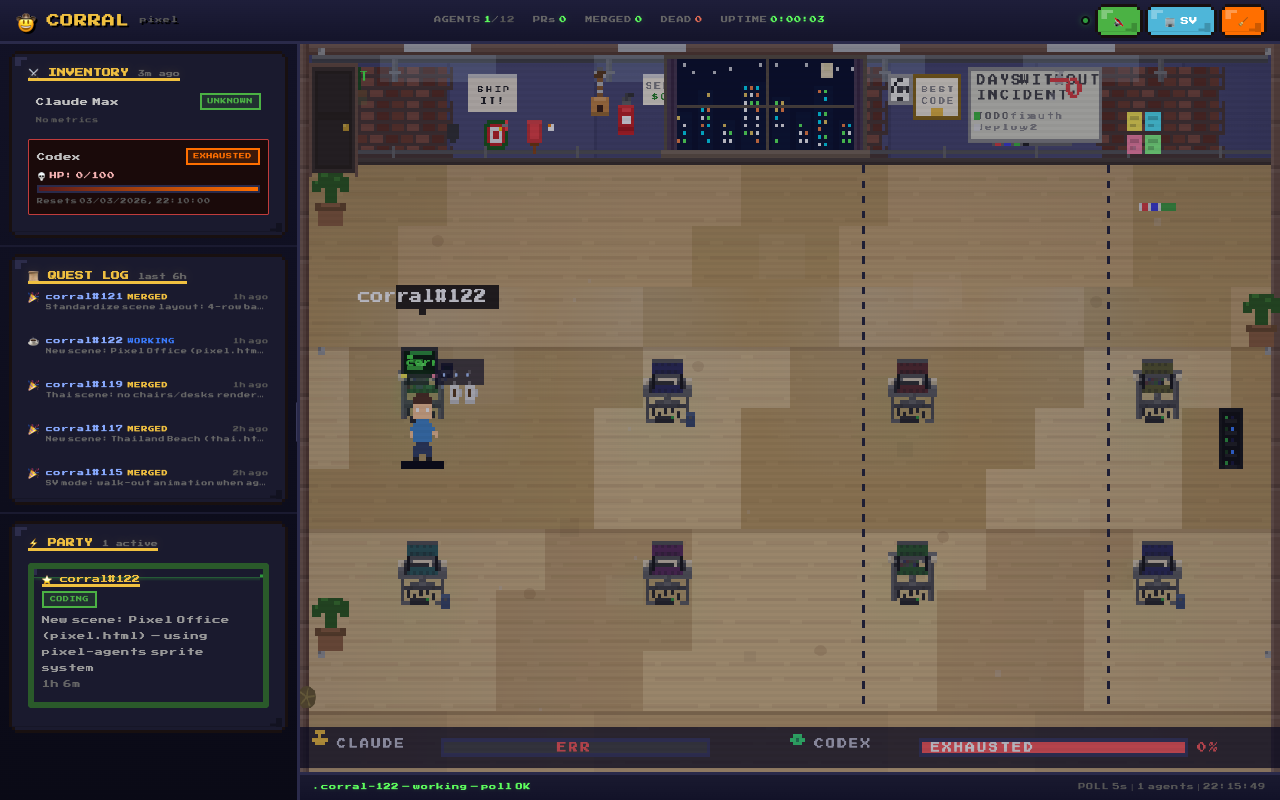
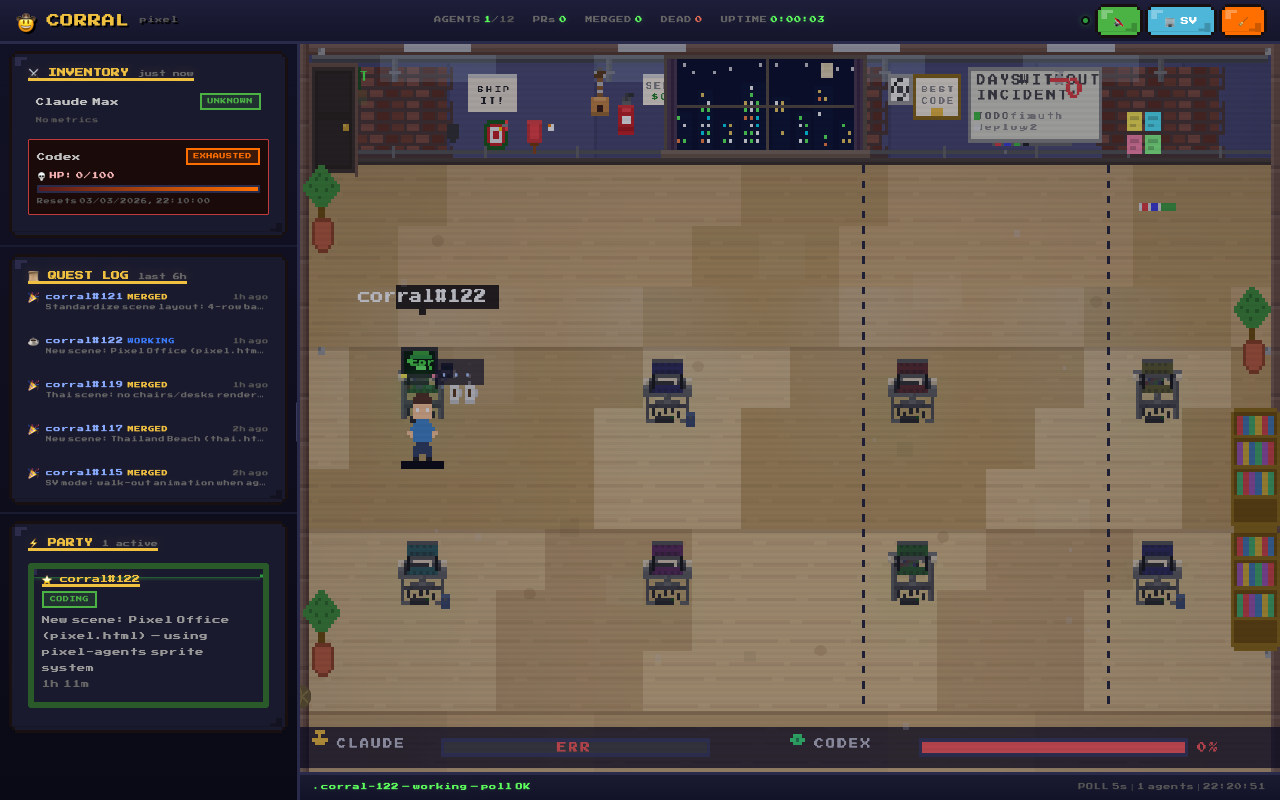
feat: add pixel-agents furniture sprites and fix mode label
- Port PLANT_SPRITE and BOOKSHELF_SPRITE from pixel-agents (MIT)
- Replace hand-drawn plants with pixel-agents sprite rendering
- Replace server rack with bookshelves
- Add MIT license attribution HTML comment at file top
- Fix mode label from "sv" to "pixel"
- Fix localStorage preference to set "pixel" not "sv"

diff --git a/pixel.html b/pixel.html
@@ -1,4 +1,9 @@
 <!DOCTYPE html>
+<!--
+  Pixel Office scene for Corral.
+  Character sprites ported from pixel-agents by Pablo De Lucca (MIT License).
+  https://github.com/pablodelucca/pixel-agents
+-->
 <html lang="en">
 <head>
 <meta charset="UTF-8">
@@ -1958,6 +1963,85 @@ function drawCharacterPixel(d, colorIdx, state, dir) {
   }
 }
 
+// ============================================================
+// Pixel-agents furniture sprites (MIT License, pixel-agents)
+// ============================================================
+
+const PLANT_SPRITE = [
+  ['','','','','','','#3D8B37','#3D8B37','','','','','','','',''],
+  ['','','','','','#3D8B37','#3D8B37','#3D8B37','#3D8B37','','','','','','',''],
+  ['','','','','#3D8B37','#3D8B37','#2D6B27','#3D8B37','#3D8B37','#3D8B37','','','','','',''],
+  ['','','','#3D8B37','#3D8B37','#2D6B27','#3D8B37','#3D8B37','#2D6B27','#3D8B37','#3D8B37','','','','',''],
+  ['','','#3D8B37','#3D8B37','#3D8B37','#3D8B37','#3D8B37','#3D8B37','#3D8B37','#3D8B37','#3D8B37','#3D8B37','','','',''],
+  ['','#3D8B37','#3D8B37','#2D6B27','#3D8B37','#3D8B37','#3D8B37','#3D8B37','#3D8B37','#3D8B37','#2D6B27','#3D8B37','#3D8B37','','',''],
+  ['','#3D8B37','#3D8B37','#3D8B37','#3D8B37','#2D6B27','#3D8B37','#3D8B37','#2D6B27','#3D8B37','#3D8B37','#3D8B37','#3D8B37','','',''],
+  ['','','#3D8B37','#3D8B37','#3D8B37','#3D8B37','#3D8B37','#3D8B37','#3D8B37','#3D8B37','#3D8B37','#3D8B37','','','',''],
+  ['','','','#3D8B37','#3D8B37','#3D8B37','#2D6B27','#3D8B37','#3D8B37','#3D8B37','#3D8B37','','','','',''],
+  ['','','','','#3D8B37','#3D8B37','#3D8B37','#3D8B37','#3D8B37','#3D8B37','','','','','',''],
+  ['','','','','','#3D8B37','#3D8B37','#3D8B37','#3D8B37','','','','','','',''],
+  ['','','','','','','#6B4E0A','#6B4E0A','','','','','','','',''],
+  ['','','','','','','#6B4E0A','#6B4E0A','','','','','','','',''],
+  ['','','','','','','#6B4E0A','#6B4E0A','','','','','','','',''],
+  ['','','','','','#8B4422','#8B4422','#8B4422','#8B4422','#8B4422','','','','','',''],
+  ['','','','','#8B4422','#B85C3A','#B85C3A','#B85C3A','#B85C3A','#B85C3A','#8B4422','','','','',''],
+  ['','','','','#8B4422','#B85C3A','#B85C3A','#B85C3A','#B85C3A','#B85C3A','#8B4422','','','','',''],
+  ['','','','','#8B4422','#B85C3A','#B85C3A','#B85C3A','#B85C3A','#B85C3A','#8B4422','','','','',''],
+  ['','','','','#8B4422','#B85C3A','#B85C3A','#B85C3A','#B85C3A','#B85C3A','#8B4422','','','','',''],
+  ['','','','','#8B4422','#B85C3A','#B85C3A','#B85C3A','#B85C3A','#B85C3A','#8B4422','','','','',''],
+  ['','','','','#8B4422','#B85C3A','#B85C3A','#B85C3A','#B85C3A','#B85C3A','#8B4422','','','','',''],
+  ['','','','','','#8B4422','#B85C3A','#B85C3A','#B85C3A','#8B4422','','','','','',''],
+  ['','','','','','','#8B4422','#8B4422','#8B4422','','','','','','',''],
+  ['','','','','','','','','','','','','','','',''],
+];
+
+const BOOKSHELF_SPRITE = [
+  ['','#8B6914','#8B6914','#8B6914','#8B6914','#8B6914','#8B6914','#8B6914','#8B6914','#8B6914','#8B6914','#8B6914','#8B6914','#8B6914','#8B6914',''],
+  ['#8B6914','#6B4E0A','#6B4E0A','#6B4E0A','#6B4E0A','#6B4E0A','#6B4E0A','#6B4E0A','#6B4E0A','#6B4E0A','#6B4E0A','#6B4E0A','#6B4E0A','#6B4E0A','#6B4E0A','#8B6914'],
+  ['#8B6914','#6B4E0A','#CC4444','#CC4444','#4477AA','#4477AA','#44AA66','#44AA66','#CCAA33','#CCAA33','#CC4444','#CC4444','#4477AA','#4477AA','#6B4E0A','#8B6914'],
+  ['#8B6914','#6B4E0A','#CC4444','#CC4444','#4477AA','#4477AA','#44AA66','#44AA66','#CCAA33','#CCAA33','#CC4444','#CC4444','#4477AA','#4477AA','#6B4E0A','#8B6914'],
+  ['#8B6914','#6B4E0A','#CC4444','#CC4444','#4477AA','#4477AA','#44AA66','#44AA66','#CCAA33','#CCAA33','#CC4444','#CC4444','#4477AA','#4477AA','#6B4E0A','#8B6914'],
+  ['#8B6914','#6B4E0A','#CC4444','#CC4444','#4477AA','#4477AA','#44AA66','#44AA66','#CCAA33','#CCAA33','#CC4444','#CC4444','#4477AA','#4477AA','#6B4E0A','#8B6914'],
+  ['#8B6914','#6B4E0A','#CC4444','#CC4444','#4477AA','#4477AA','#44AA66','#44AA66','#CCAA33','#CCAA33','#CC4444','#CC4444','#4477AA','#4477AA','#6B4E0A','#8B6914'],
+  ['#8B6914','#8B6914','#8B6914','#8B6914','#8B6914','#8B6914','#8B6914','#8B6914','#8B6914','#8B6914','#8B6914','#8B6914','#8B6914','#8B6914','#8B6914','#8B6914'],
+  ['#8B6914','#6B4E0A','#6B4E0A','#6B4E0A','#6B4E0A','#6B4E0A','#6B4E0A','#6B4E0A','#6B4E0A','#6B4E0A','#6B4E0A','#6B4E0A','#6B4E0A','#6B4E0A','#6B4E0A','#8B6914'],
+  ['#8B6914','#6B4E0A','#9955AA','#9955AA','#CCAA33','#CCAA33','#4477AA','#4477AA','#44AA66','#44AA66','#9955AA','#9955AA','#CC4444','#CC4444','#6B4E0A','#8B6914'],
+  ['#8B6914','#6B4E0A','#9955AA','#9955AA','#CCAA33','#CCAA33','#4477AA','#4477AA','#44AA66','#44AA66','#9955AA','#9955AA','#CC4444','#CC4444','#6B4E0A','#8B6914'],
+  ['#8B6914','#6B4E0A','#9955AA','#9955AA','#CCAA33','#CCAA33','#4477AA','#4477AA','#44AA66','#44AA66','#9955AA','#9955AA','#CC4444','#CC4444','#6B4E0A','#8B6914'],
+  ['#8B6914','#6B4E0A','#9955AA','#9955AA','#CCAA33','#CCAA33','#4477AA','#4477AA','#44AA66','#44AA66','#9955AA','#9955AA','#CC4444','#CC4444','#6B4E0A','#8B6914'],
+  ['#8B6914','#6B4E0A','#9955AA','#9955AA','#CCAA33','#CCAA33','#4477AA','#4477AA','#44AA66','#44AA66','#9955AA','#9955AA','#CC4444','#CC4444','#6B4E0A','#8B6914'],
+  ['#8B6914','#6B4E0A','#9955AA','#9955AA','#CCAA33','#CCAA33','#4477AA','#4477AA','#44AA66','#44AA66','#9955AA','#9955AA','#CC4444','#CC4444','#6B4E0A','#8B6914'],
+  ['#8B6914','#8B6914','#8B6914','#8B6914','#8B6914','#8B6914','#8B6914','#8B6914','#8B6914','#8B6914','#8B6914','#8B6914','#8B6914','#8B6914','#8B6914','#8B6914'],
+  ['#8B6914','#6B4E0A','#6B4E0A','#6B4E0A','#6B4E0A','#6B4E0A','#6B4E0A','#6B4E0A','#6B4E0A','#6B4E0A','#6B4E0A','#6B4E0A','#6B4E0A','#6B4E0A','#6B4E0A','#8B6914'],
+  ['#8B6914','#6B4E0A','#44AA66','#44AA66','#CC4444','#CC4444','#9955AA','#9955AA','#4477AA','#4477AA','#CCAA33','#CCAA33','#44AA66','#44AA66','#6B4E0A','#8B6914'],
+  ['#8B6914','#6B4E0A','#44AA66','#44AA66','#CC4444','#CC4444','#9955AA','#9955AA','#4477AA','#4477AA','#CCAA33','#CCAA33','#44AA66','#44AA66','#6B4E0A','#8B6914'],
+  ['#8B6914','#6B4E0A','#44AA66','#44AA66','#CC4444','#CC4444','#9955AA','#9955AA','#4477AA','#4477AA','#CCAA33','#CCAA33','#44AA66','#44AA66','#6B4E0A','#8B6914'],
+  ['#8B6914','#6B4E0A','#44AA66','#44AA66','#CC4444','#CC4444','#9955AA','#9955AA','#4477AA','#4477AA','#CCAA33','#CCAA33','#44AA66','#44AA66','#6B4E0A','#8B6914'],
+  ['#8B6914','#6B4E0A','#44AA66','#44AA66','#CC4444','#CC4444','#9955AA','#9955AA','#4477AA','#4477AA','#CCAA33','#CCAA33','#44AA66','#44AA66','#6B4E0A','#8B6914'],
+  ['#8B6914','#6B4E0A','#44AA66','#44AA66','#CC4444','#CC4444','#9955AA','#9955AA','#4477AA','#4477AA','#CCAA33','#CCAA33','#44AA66','#44AA66','#6B4E0A','#8B6914'],
+  ['#8B6914','#8B6914','#8B6914','#8B6914','#8B6914','#8B6914','#8B6914','#8B6914','#8B6914','#8B6914','#8B6914','#8B6914','#8B6914','#8B6914','#8B6914','#8B6914'],
+  ['#8B6914','#6B4E0A','#6B4E0A','#6B4E0A','#6B4E0A','#6B4E0A','#6B4E0A','#6B4E0A','#6B4E0A','#6B4E0A','#6B4E0A','#6B4E0A','#6B4E0A','#6B4E0A','#6B4E0A','#8B6914'],
+  ['#8B6914','#6B4E0A','#6B4E0A','#6B4E0A','#6B4E0A','#6B4E0A','#6B4E0A','#6B4E0A','#6B4E0A','#6B4E0A','#6B4E0A','#6B4E0A','#6B4E0A','#6B4E0A','#6B4E0A','#8B6914'],
+  ['#8B6914','#6B4E0A','#6B4E0A','#6B4E0A','#6B4E0A','#6B4E0A','#6B4E0A','#6B4E0A','#6B4E0A','#6B4E0A','#6B4E0A','#6B4E0A','#6B4E0A','#6B4E0A','#6B4E0A','#8B6914'],
+  ['#8B6914','#6B4E0A','#6B4E0A','#6B4E0A','#6B4E0A','#6B4E0A','#6B4E0A','#6B4E0A','#6B4E0A','#6B4E0A','#6B4E0A','#6B4E0A','#6B4E0A','#6B4E0A','#6B4E0A','#8B6914'],
+  ['#8B6914','#6B4E0A','#6B4E0A','#6B4E0A','#6B4E0A','#6B4E0A','#6B4E0A','#6B4E0A','#6B4E0A','#6B4E0A','#6B4E0A','#6B4E0A','#6B4E0A','#6B4E0A','#6B4E0A','#8B6914'],
+  ['#8B6914','#6B4E0A','#6B4E0A','#6B4E0A','#6B4E0A','#6B4E0A','#6B4E0A','#6B4E0A','#6B4E0A','#6B4E0A','#6B4E0A','#6B4E0A','#6B4E0A','#6B4E0A','#6B4E0A','#8B6914'],
+  ['#8B6914','#8B6914','#8B6914','#8B6914','#8B6914','#8B6914','#8B6914','#8B6914','#8B6914','#8B6914','#8B6914','#8B6914','#8B6914','#8B6914','#8B6914','#8B6914'],
+  ['','#8B6914','#8B6914','#8B6914','#8B6914','#8B6914','#8B6914','#8B6914','#8B6914','#8B6914','#8B6914','#8B6914','#8B6914','#8B6914','#8B6914',''],
+];
+
+/** Render a pixel-agents 2D sprite array at tile position */
+function drawPixelSprite(sprite, tx, ty) {
+  ctx.save(); ctx.scale(SCALE, SCALE);
+  const px = tx * TILE, py = ty * TILE;
+  for (let r = 0; r < sprite.length; r++) {
+    const row = sprite[r];
+    for (let c = 0; c < row.length; c++) {
+      if (row[c]) { ctx.fillStyle = row[c]; ctx.fillRect(px + c, py + r, 1, 1); }
+    }
+  }
+  ctx.restore();
+}
+
 // --- Ambient particles (dust motes only for clean office) ---
 const particles = [];
 (function initParticles() {
@@ -2615,13 +2699,11 @@ function drawTokenBar(d, pct) {
 }
 
 function drawPlant(tx, ty) {
-  ctx.save(); ctx.scale(SCALE, SCALE);
-  const x = tx * TILE + 4, y = ty * TILE;
-  R(x+2, y+10, 8, 6, PAL.plantPot); R(x+1, y+10, 10, 2, PAL.plantPotDark); R(x+3, y+10, 6, 1, PAL.plantPot);
-  R(x+4, y+4, 4, 6, PAL.plant); R(x+2, y+2, 8, 4, PAL.plant);
-  R(x, y+4, 3, 3, PAL.plant); R(x+9, y+3, 3, 4, PAL.plant);
-  R(x+3, y+2, 2, 1, PAL.plantLight); R(x+7, y+3, 2, 1, PAL.plantLight); R(x+1, y+4, 1, 1, PAL.plantLight);
-  ctx.restore();
+  drawPixelSprite(PLANT_SPRITE, tx, ty);
+}
+
+function drawBookshelf(tx, ty) {
+  drawPixelSprite(BOOKSHELF_SPRITE, tx, ty);
 }
 
 function drawServerRack(px, py) {
@@ -3510,7 +3592,7 @@ function render() {
 
   drawTumbleweed();
   drawPlant(0, 2); drawPlant(0, 9); drawPlant(COLS - 1, 4);
-  drawServerRack((COLS - 1) * TILE - 4, 6 * TILE);
+  drawBookshelf(COLS - 1, 6); drawBookshelf(COLS - 1, 8);
   drawParticles();
 
   // Day/night overlay — applied last, over entire scene
